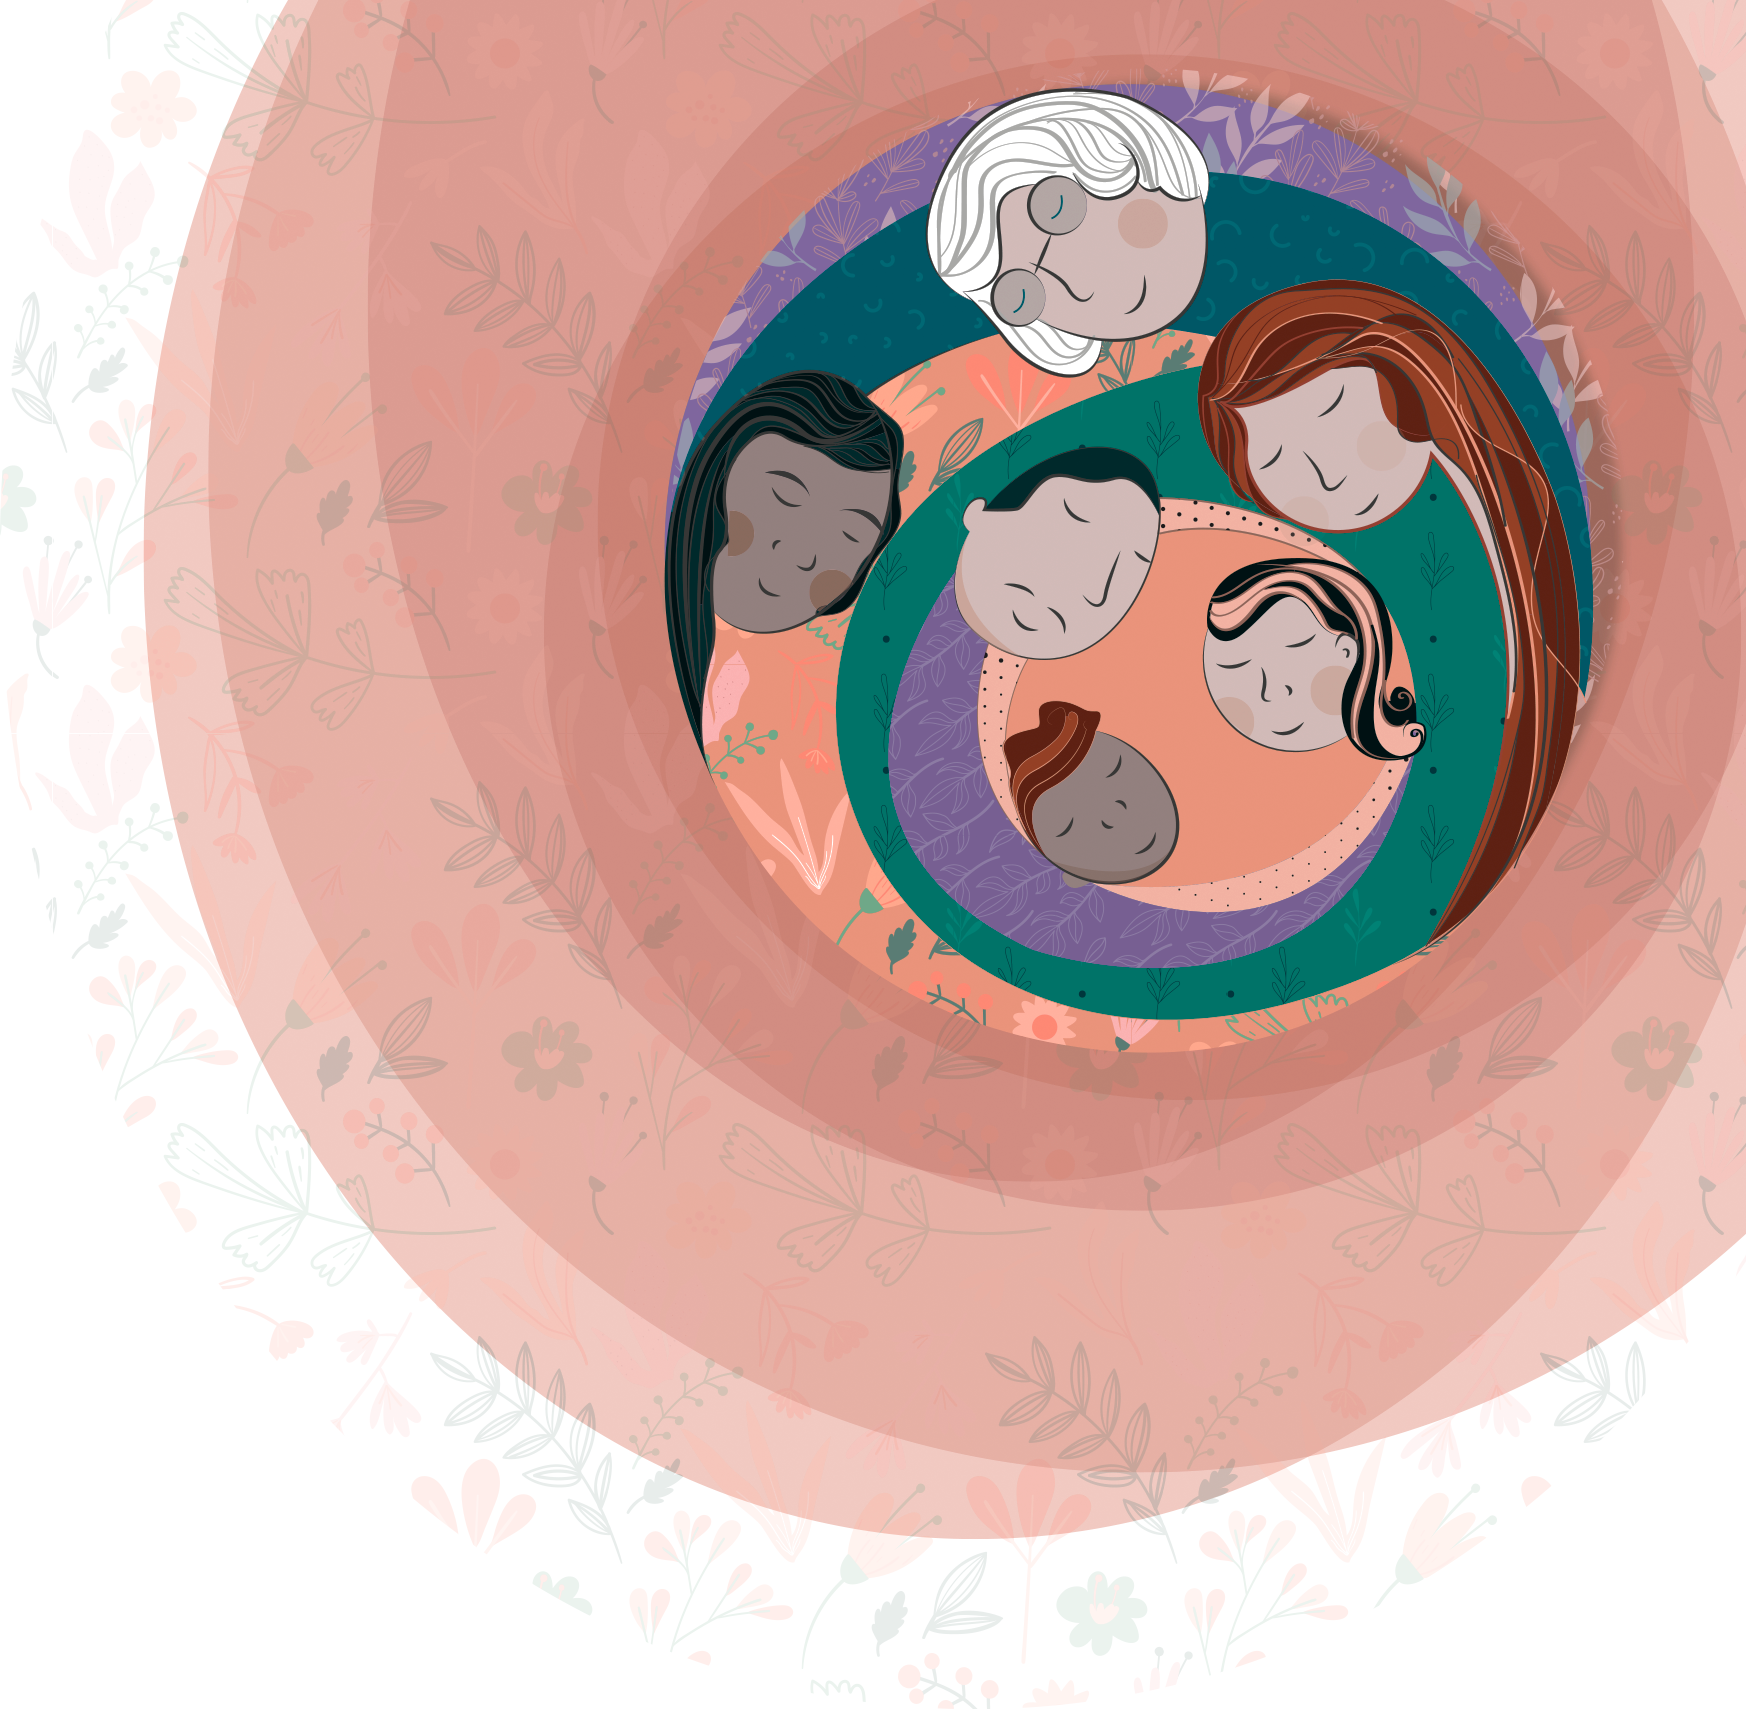
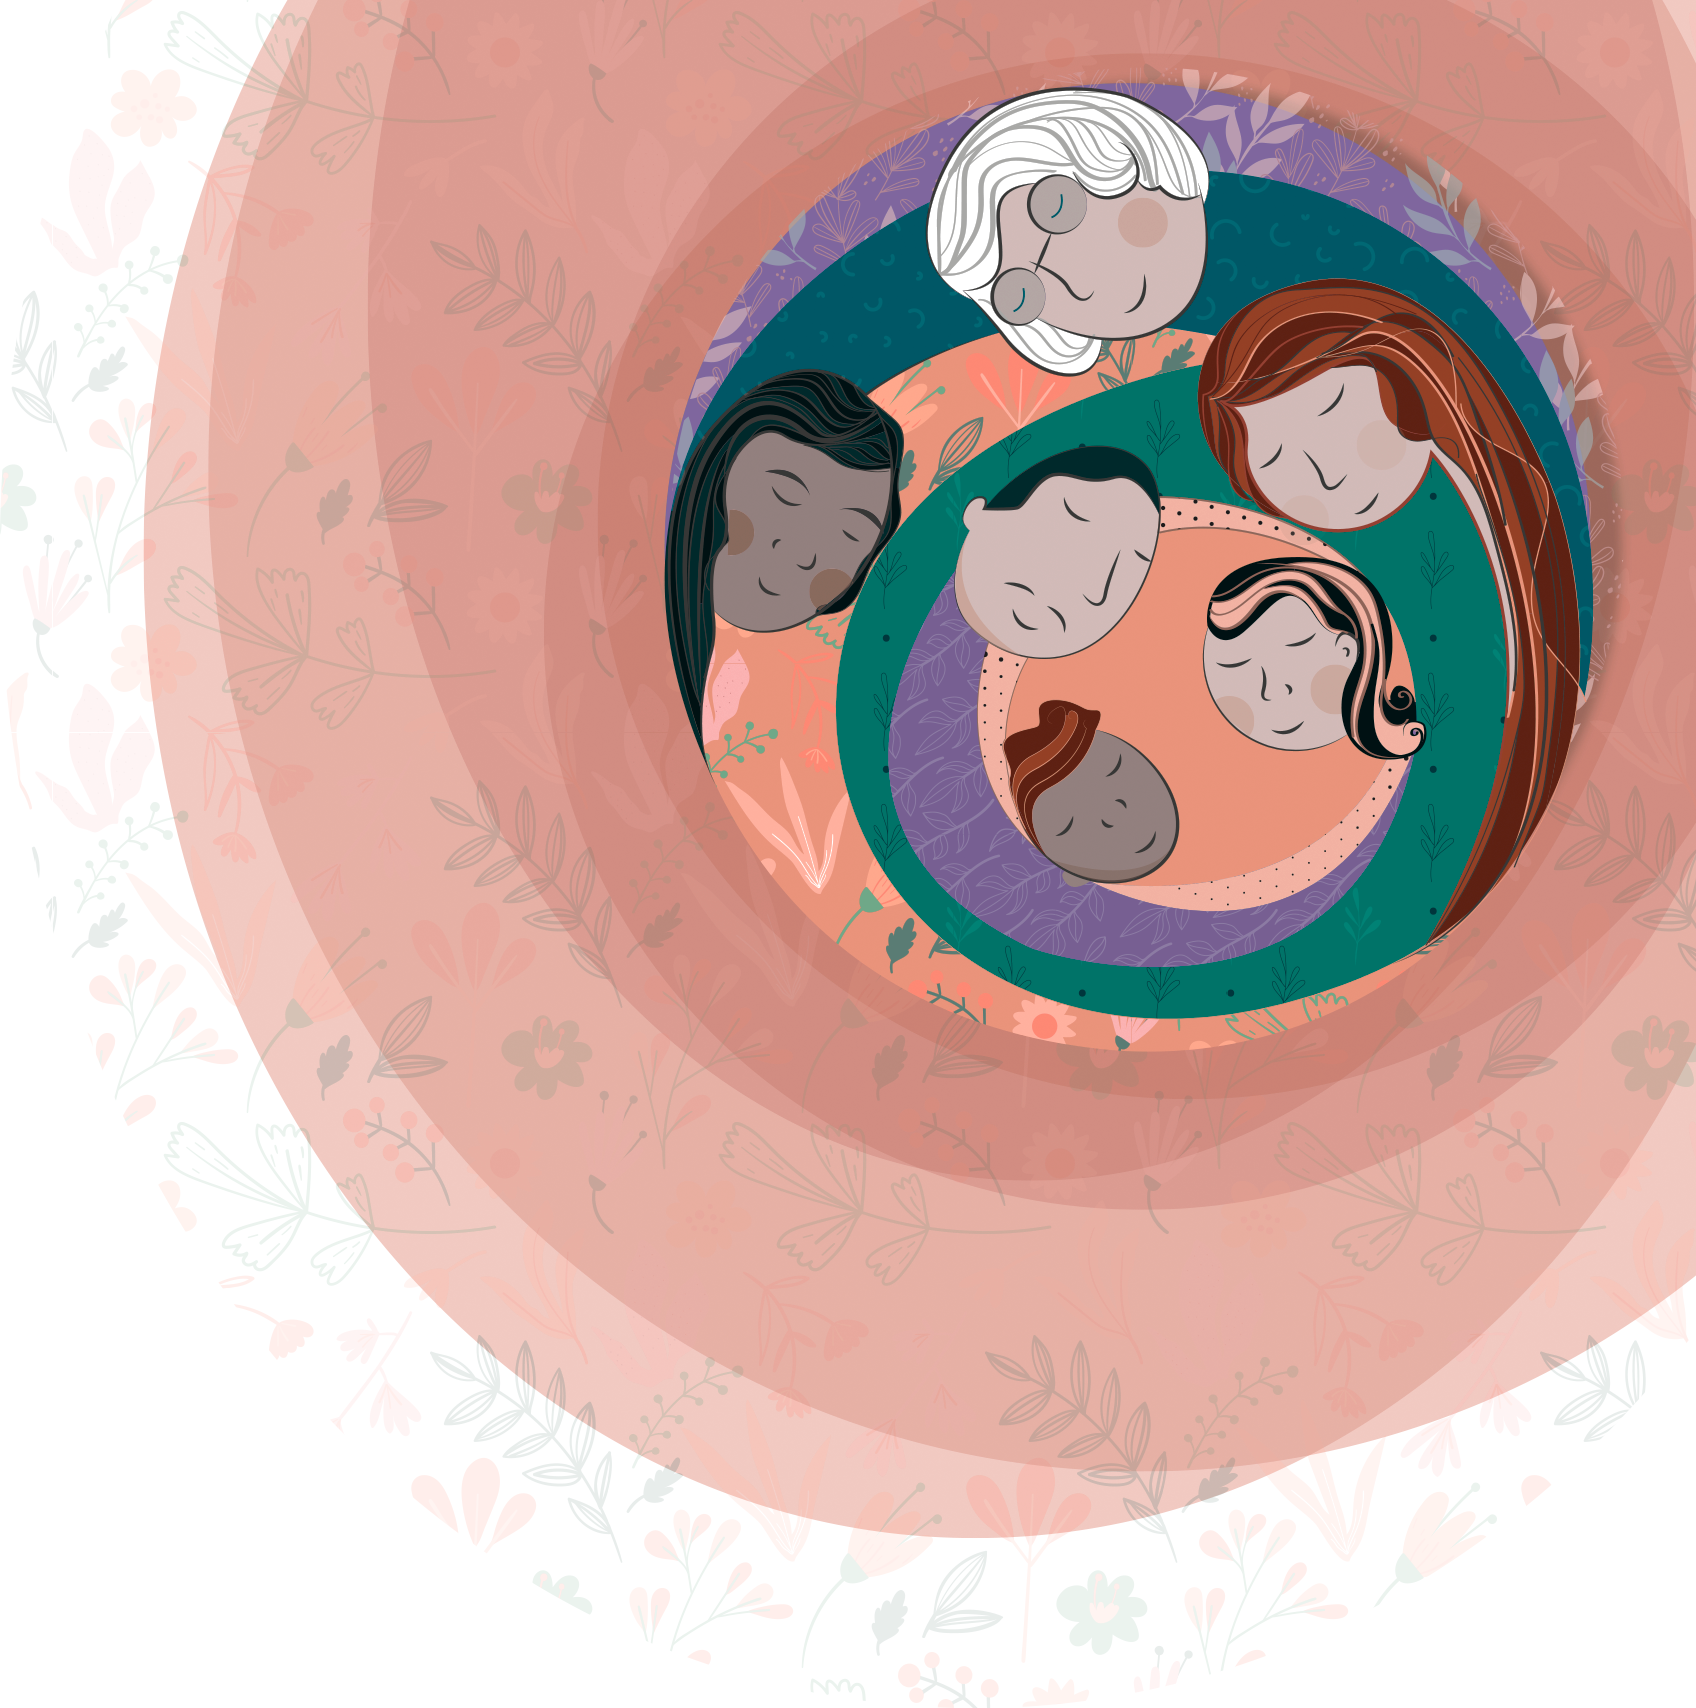
Fixes

diff --git a/components/_layouts/header.jsx b/components/_layouts/header.jsx
@@ -1,6 +1,7 @@
 import Image from 'next/image';
 
-import headerBg from '../../public/images/header.png';
+import headerImg from '../../public/images/header.png';
+import headerImgLg from '../../public/images/header_large.png';
 
 import headerTitle from '../../public/images/header_title.png';
 import logo from '../../public/images/logo.png';
@@ -10,10 +11,13 @@ import { useRef, useState, useEffect } from 'react';
 import { motion } from 'framer-motion';
 import Article from '../_components/article';
 import ArticleList from './article-list';
+import useWindowSize from '../../hooks/useWindowSize';
 
 
 const Header = () => {
+    const size = useWindowSize();
     const [offset, setOffset] = useState();
+    const [headerBg, setHeaderBg] = useState(headerImg);
 
     const { scrollY } = useViewportScroll();
 
@@ -24,21 +28,19 @@ const Header = () => {
     });
 
     useEffect(() => {
+        if (size.width > 560) {
+            setHeaderBg(headerImgLg);
+        } else {
+            setHeaderBg(headerImg);
+        }
+    }, [size])
+
+    useEffect(() => {
         const el = ref.current;
         setOffset(el.offsetTop);
     }, [ref]);
 
     return (
-        /*<header className="header">
-            <div ref={ref} className="parallax">
-                <motion.div className="parallax__overlay" style={{ y }}>
-                    
-                </motion.div>
-                <div className="parallax__img">
-                    <Image src={headerBg} alt='' />
-                </div>
-            </div>
-        </header>*/
         <header className='header' ref={ref}>
             <div className="header__img">
                 <Image src={headerBg} alt='' />

diff --git a/styles/main.scss b/styles/main.scss
@@ -40,23 +40,24 @@ body {
 
   &__img {
     position: absolute;
-    width: 1200px;
-    top: -350px;
-    right: -180px;
+    width: 80%;
+    max-width: 1200px;
+    top: 0;
+    right: 0;
     @include screen-down(lg) {
-      width: 860px;
-      top: -180px;
+      width: 700px;
+      top: 0px;
     }
 
     @include screen-down(md) {
-      width: 860px;
-      top: -180px;
+      width: 600px;
+      top: 0px;
     }
 
     @include screen-down(sm) {
-      width: 750px;
-      top: -42px;
-      right: -110px;
+      width: 100%;
+      top: 0;
+      right: 0;
     }
   }
 
@@ -77,6 +78,9 @@ body {
     }
     &__image {
       max-width: 400px;
+      @include screen-down(md) {
+        max-width: 75%;
+      }
       @include screen-down(sm) {
         margin: auto;
         max-width: 50%;
@@ -104,7 +108,7 @@ body {
   .search {
     margin-top: 6rem;
     &__input {
-      @include screen-down(sm) {
+      @include screen-down(md) {
         width: 80%;
       }
       width: 550px;

diff --git a/pages/index.js b/pages/index.js
@@ -17,6 +17,8 @@ export default function Index({ articles }) {
     <Fragment>
       <Head>
         <title>Código de Familias | elTOQUE</title>
+        <meta name="viewport" content="width=device-width, initial-scale=1" />
+        <meta httpEquiv="Content-Type" content="text/html; charset=utf-8" />
         <meta name="description" content="Generated by create next app" />
         <link rel="icon" href="/favicon.ico" />
       </Head>

diff --git a/components/_layouts/articles.jsx b/components/_layouts/articles.jsx
@@ -12,7 +12,8 @@ import { motion, useAnimation, useTransform, useViewportScroll } from 'framer-mo
 const ArticleSlider = ({ articles = [] }) => {
 
     const swipeConfidenceThreshold = 10000;
-
+    
+    const containerRef = useRef();
     const size = useWindowSize();
     const { scrollY } = useViewportScroll();
     const offset = useTransform(scrollY, value => value * 0.2 * -1);
